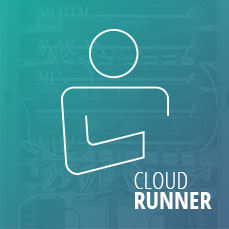
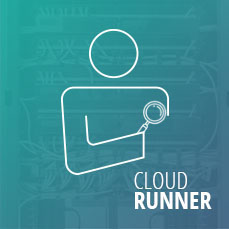
Improve expertises and services text Add runner tool

Changed region(s): [[0.5808, 0.4279, 0.7336, 0.5808]]

diff --git a/services.html b/services.html
@@ -13,6 +13,11 @@ class: services
                 </div>
             </div>
             <div class="row">
+                <div class="col-md-6 schema-container">
+
+                    <img class="schema2" src="{{"/images/schema2.png"|relative_url}}" alt="Les 3 étapes du service Wescale"/>
+
+                </div>
                 <div class="col-md-6">
                     <h2>Identifier</h2>
 
@@ -31,6 +36,8 @@ class: services
                         plate-forme de Cloud choisie :</p>
                     <ul>
                         <li>cloud public, privé ou hybride</li>
+                        <li>automatisation de l'infrastructure et du déploiement</li>
+                        <li>elasticité des plateformes</li>
                     </ul>
 
                     <h2>Migrer</h2>
@@ -44,11 +51,6 @@ class: services
                         <li>run des services dans le Cloud</li>
                         <li>évangélisation</li>
                     </ul>
-
-                </div>
-                <div class="col-md-6 schema-container">
-
-                    <img class="schema2" src="{{"/images/schema2.png"|relative_url}}" alt="Les 3 étapes du service Wescale"/>
 
                 </div>
             </div>

diff --git a/expertises.html b/expertises.html
@@ -11,7 +11,7 @@ class: partenariats
 
                     </div>
                     <div class="col-md-8 home-content">
-                                    <h1 class="title">Cloud experts</h1>
+                                    <h1 class="title">DevOps &Cloud experts</h1>
             <p class="home-text">
                       Nos consultants sont certifiés sur les plateformes Cloud public et privé. Wescale investi en
                         continue dans la formation des wewes.

diff --git a/index.html b/index.html
@@ -8,7 +8,7 @@ class: home
         <div class="row">
           <div class="col-md-8 home-content">
             <p class="up-title"><strong>IT</strong> as a service</p>
-            <h1 class="title">Cloud experts</h1>
+            <h1 class="title">DevOps & Cloud experts</h1>
             <p class="home-text">
 
               <strong>Notre métier</strong> : supprimer les contraintes entre vos développements et la livraison de

diff --git a/css/style.css b/css/style.css
@@ -299,7 +299,7 @@ img {
     }
 
     .home-top .title {
-        font-size: 90px;
+        font-size: 60px;
         font-weight: bold;
         color: white;
         margin: 20px 0 20px;
